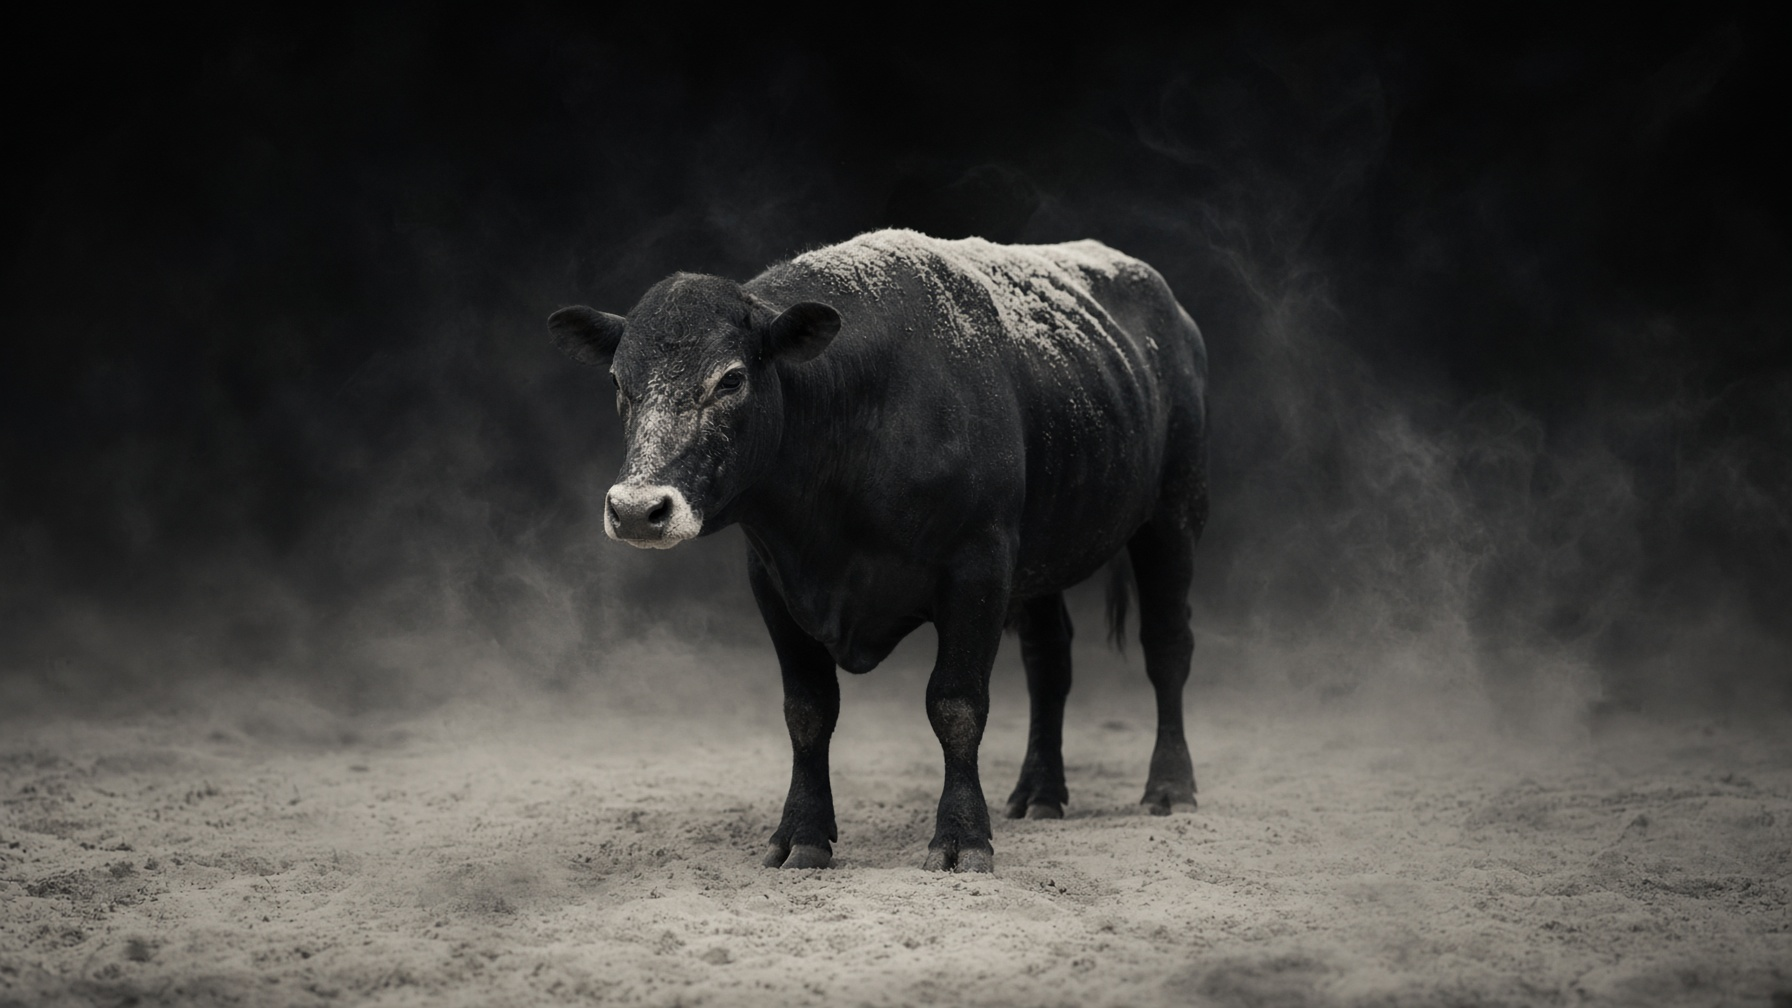
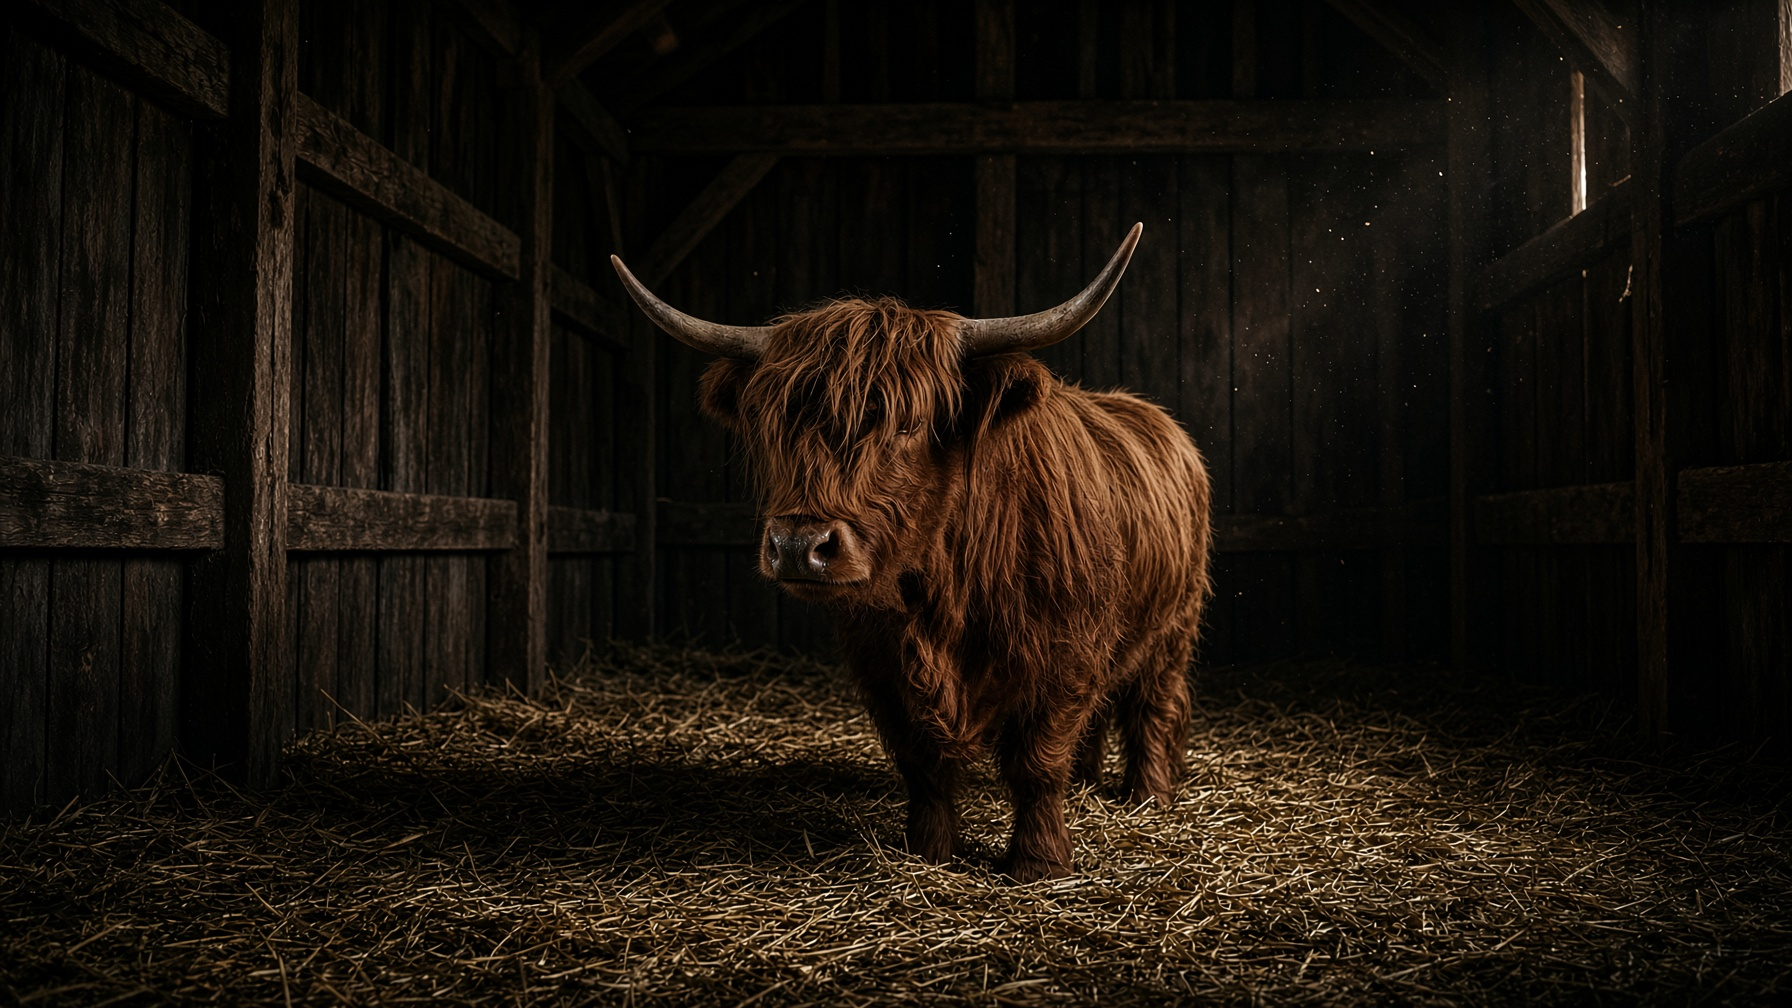
Make Ash Cow a Highland cow and finish the public API
Hero, portrait, mark, and OG are a Scottish Highland. Shop and sales pages use the photos. GET /api/health and /api/stalls close the backend; 404s land in an empty stall.

diff --git a/src/routes/shop.tsx b/src/routes/shop.tsx
@@ -14,32 +14,55 @@ function ShopPage() {
 
   return (
     <Shell>
-      <main className="mx-auto w-full max-w-6xl px-4 py-12 sm:px-6 sm:py-16">
-        <p className="font-mono text-xs tracking-[0.2em] text-subtle uppercase">Open stall</p>
-        <h1 className="mt-2 font-display text-4xl tracking-tight sm:text-6xl">Shop</h1>
-        <p className="mt-4 max-w-2xl text-base leading-relaxed text-muted">
-          These three kits are live. Share a stall. Take payment on the link you set in Till.
-          The barn logs what actually clears.
-        </p>
-        <div className="mt-10 grid gap-4 sm:grid-cols-2 lg:grid-cols-3">
-          {READY_COWS.map((cow) => (
-            <article
-              key={cow.id}
-              className="flex flex-col rounded-xl bg-surface p-5 shadow-[var(--shadow-border)]"
-            >
-              <p className="font-mono text-xs tabular-nums text-subtle">{money(cow.price)}</p>
-              <h2 className="mt-2 font-display text-2xl tracking-tight">{cow.name}</h2>
-              <p className="mt-2 flex-1 text-sm leading-relaxed text-muted">{cow.oneLiner}</p>
-              <div className="mt-5 flex flex-wrap gap-2">
-                <Button asChild variant="secondary">
-                  <Link to="/s/$id" params={{ id: cow.id }}>
-                    Sales page
-                  </Link>
-                </Button>
-                {mounted ? <BuyButton cow={cow} size="default" /> : null}
-              </div>
-            </article>
-          ))}
+      <main>
+        <section className="relative isolate overflow-hidden">
+          <img
+            src="/portrait-cow.jpg"
+            alt="Highland cow in a dark barn"
+            className="absolute inset-0 size-full object-cover object-[center_20%] md:hidden"
+          />
+          <img
+            src="/hero-cow.jpg"
+            alt="Highland cow in a dark barn"
+            className="absolute inset-0 hidden size-full object-cover object-center md:block"
+          />
+          <div className="absolute inset-0 bg-gradient-to-t from-bg via-bg/50 to-bg/15" />
+          <div className="relative mx-auto w-full max-w-6xl px-4 py-16 sm:px-6 sm:py-24">
+            <p className="font-mono text-xs tracking-[0.2em] text-accent uppercase">Open stall</p>
+            <h1 className="mt-2 font-display text-4xl tracking-tight sm:text-6xl">Shop</h1>
+            <p className="mt-4 max-w-xl text-base leading-relaxed text-fg/85">
+              Three kits. Share a stall. Stripe Checkout takes the money. Nango fills the barn.
+            </p>
+          </div>
+        </section>
+        <div className="mx-auto w-full max-w-6xl px-4 py-12 sm:px-6 sm:pb-16">
+          <div className="grid gap-4 sm:grid-cols-2 lg:grid-cols-3">
+            {READY_COWS.map((cow) => (
+              <article
+                key={cow.id}
+                className="flex flex-col overflow-hidden rounded-xl bg-surface shadow-[var(--shadow-border)]"
+              >
+                <img
+                  src="/portrait-cow.jpg"
+                  alt=""
+                  className="h-40 w-full object-cover object-[center_20%]"
+                />
+                <div className="flex flex-1 flex-col p-5">
+                  <p className="font-mono text-xs tabular-nums text-subtle">{money(cow.price)}</p>
+                  <h2 className="mt-2 font-display text-2xl tracking-tight">{cow.name}</h2>
+                  <p className="mt-2 flex-1 text-sm leading-relaxed text-muted">{cow.oneLiner}</p>
+                  <div className="mt-5 flex flex-wrap gap-2">
+                    <Button asChild variant="secondary">
+                      <Link to="/s/$id" params={{ id: cow.id }}>
+                        Sales page
+                      </Link>
+                    </Button>
+                    {mounted ? <BuyButton cow={cow} size="default" /> : null}
+                  </div>
+                </div>
+              </article>
+            ))}
+          </div>
         </div>
       </main>
     </Shell>

diff --git a/src/routeTree.gen.ts b/src/routeTree.gen.ts
@@ -15,6 +15,8 @@ import { Route as PaidRouteImport } from './routes/paid'
 import { Route as ShopRouteImport } from './routes/shop'
 import { Route as TillRouteImport } from './routes/till'
 import { Route as TruthRouteImport } from './routes/truth'
+import { Route as ApiHealthRouteImport } from './routes/api/health'
+import { Route as ApiStallsRouteImport } from './routes/api/stalls'
 import { Route as CowIdRouteImport } from './routes/cow.$id'
 import { Route as SIdRouteImport } from './routes/s.$id'
 import { Route as ApiNangoWebhookRouteImport } from './routes/api/nango/webhook'
@@ -50,6 +52,16 @@ const TruthRoute = TruthRouteImport.update({
   path: '/truth',
   getParentRoute: () => rootRouteImport,
 } as any)
+const ApiHealthRoute = ApiHealthRouteImport.update({
+  id: '/api/health',
+  path: '/api/health',
+  getParentRoute: () => rootRouteImport,
+} as any)
+const ApiStallsRoute = ApiStallsRouteImport.update({
+  id: '/api/stalls',
+  path: '/api/stalls',
+  getParentRoute: () => rootRouteImport,
+} as any)
 const CowIdRoute = CowIdRouteImport.update({
   id: '/cow/$id',
   path: '/cow/$id',
@@ -78,6 +90,8 @@ export interface FileRoutesByFullPath {
   '/shop': typeof ShopRoute
   '/till': typeof TillRoute
   '/truth': typeof TruthRoute
+  '/api/health': typeof ApiHealthRoute
+  '/api/stalls': typeof ApiStallsRoute
   '/cow/$id': typeof CowIdRoute
   '/s/$id': typeof SIdRoute
   '/api/nango/webhook': typeof ApiNangoWebhookRoute
@@ -90,6 +104,8 @@ export interface FileRoutesByTo {
   '/shop': typeof ShopRoute
   '/till': typeof TillRoute
   '/truth': typeof TruthRoute
+  '/api/health': typeof ApiHealthRoute
+  '/api/stalls': typeof ApiStallsRoute
   '/cow/$id': typeof CowIdRoute
   '/s/$id': typeof SIdRoute
   '/api/nango/webhook': typeof ApiNangoWebhookRoute
@@ -103,6 +119,8 @@ export interface FileRoutesById {
   '/shop': typeof ShopRoute
   '/till': typeof TillRoute
   '/truth': typeof TruthRoute
+  '/api/health': typeof ApiHealthRoute
+  '/api/stalls': typeof ApiStallsRoute
   '/cow/$id': typeof CowIdRoute
   '/s/$id': typeof SIdRoute
   '/api/nango/webhook': typeof ApiNangoWebhookRoute
@@ -117,6 +135,8 @@ export interface FileRouteTypes {
     | '/shop'
     | '/till'
     | '/truth'
+    | '/api/health'
+    | '/api/stalls'
     | '/cow/$id'
     | '/s/$id'
     | '/api/nango/webhook'
@@ -129,6 +149,8 @@ export interface FileRouteTypes {
     | '/shop'
     | '/till'
     | '/truth'
+    | '/api/health'
+    | '/api/stalls'
     | '/cow/$id'
     | '/s/$id'
     | '/api/nango/webhook'
@@ -141,6 +163,8 @@ export interface FileRouteTypes {
     | '/shop'
     | '/till'
     | '/truth'
+    | '/api/health'
+    | '/api/stalls'
     | '/cow/$id'
     | '/s/$id'
     | '/api/nango/webhook'
@@ -154,6 +178,8 @@ export interface RootRouteChildren {
   ShopRoute: typeof ShopRoute
   TillRoute: typeof TillRoute
   TruthRoute: typeof TruthRoute
+  ApiHealthRoute: typeof ApiHealthRoute
+  ApiStallsRoute: typeof ApiStallsRoute
   CowIdRoute: typeof CowIdRoute
   SIdRoute: typeof SIdRoute
   ApiNangoWebhookRoute: typeof ApiNangoWebhookRoute
@@ -204,6 +230,20 @@ declare module '@tanstack/react-router' {
       preLoaderRoute: typeof TruthRouteImport
       parentRoute: typeof rootRouteImport
     }
+    '/api/health': {
+      id: '/api/health'
+      path: '/api/health'
+      fullPath: '/api/health'
+      preLoaderRoute: typeof ApiHealthRouteImport
+      parentRoute: typeof rootRouteImport
+    }
+    '/api/stalls': {
+      id: '/api/stalls'
+      path: '/api/stalls'
+      fullPath: '/api/stalls'
+      preLoaderRoute: typeof ApiStallsRouteImport
+      parentRoute: typeof rootRouteImport
+    }
     '/cow/$id': {
       id: '/cow/$id'
       path: '/cow/$id'
@@ -242,6 +282,8 @@ const rootRouteChildren: RootRouteChildren = {
   ShopRoute: ShopRoute,
   TillRoute: TillRoute,
   TruthRoute: TruthRoute,
+  ApiHealthRoute: ApiHealthRoute,
+  ApiStallsRoute: ApiStallsRoute,
   CowIdRoute: CowIdRoute,
   SIdRoute: SIdRoute,
   ApiNangoWebhookRoute: ApiNangoWebhookRoute,

diff --git a/src/lib/ready-cows.ts b/src/lib/ready-cows.ts
@@ -17,14 +17,14 @@ export const READY_COWS: CashCow[] = [
     price: 29,
     name: "Ash Cow",
     oneLiner:
-      "A figurative cash cow: name a digital product, write the file, list it tonight, and run a 24-hour clock until someone pays — or until you still have a product.",
+      "A Highland cash cow: name a digital product, write the file, list it tonight, and run a 24-hour clock until someone pays — or until you still have a product.",
     promise: "Walk into tomorrow with a named product for sale, not another idea.",
     who: "people who can already do the work and keep waiting for a brand",
     outcome: "a listed digital product and a day of honest distribution",
     gumroadTitle: "Ash Cow — the 24-hour cash cow kit",
     gumroadTags: ["digital download", "solopreneur", "gumroad", "launch"],
     coverPrompt:
-      "Square 1:1 listing cover. Dark timber barn, near-black, a single pale cow in dusty side light. Centered paper-white serif lettering: \"ASH COW\". Smaller line: \"A 24-hour cash cow kit\". Editorial still. No neon, no cartoon, no collage.",
+      "Square 1:1 listing cover. Dark timber barn, a Scottish Highland cow in dusty side light, ginger coat and lyre horns. Centered paper-white serif lettering: \"ASH COW\". Smaller line: \"A Highland cash cow kit\". Editorial still. No neon, no cartoon, no collage.",
     objections: [
       {
         objection: "This is just a pep talk.",
@@ -77,7 +77,7 @@ export const READY_COWS: CashCow[] = [
       },
       {
         channel: "Caption",
-        copy: "A cash cow is a product you build once that keeps paying.\n\nAsh Cow is a figurative one: a named digital good, a sales page, and a 24-hour clock.\n\n$29. File, not a funnel.",
+        copy: "A cash cow is a product you build once that keeps paying.\n\nAsh Cow is a Highland one: a named digital good, a sales page, and a 24-hour clock.\n\n$29. File, not a funnel.",
       },
       {
         channel: "Thread",
@@ -90,7 +90,7 @@ export const READY_COWS: CashCow[] = [
     ],
     deliveryDoc: {
       title: "Ash Cow",
-      subtitle: "A 24-hour kit for a figurative cash cow.",
+      subtitle: "A 24-hour kit for a Highland cash cow.",
       pages: [
         {
           heading: "A cash cow is an object",

diff --git a/src/components/cow-mark.tsx b/src/components/cow-mark.tsx
@@ -9,10 +9,21 @@ export function CowMark({ className }: { className?: string }) {
       <rect width="32" height="32" rx="8" className="fill-raised" />
       <path
         className="fill-accent"
-        d="M8.5 13.2c0-2.4 1.2-4.4 2.7-4.4.7 0 1.2.4 1.8.4h6c.6 0 1.1-.4 1.8-.4 1.5 0 2.7 2 2.7 4.4 0 1.1-.3 2.1-.8 2.8 1.2.8 2 2.1 2 3.6 0 3.2-3.2 5.4-8.2 5.4s-8.2-2.2-8.2-5.4c0-1.5.8-2.8 2-3.6-.5-.7-.8-1.7-.8-2.8z"
+        d="M5.8 13.2C5.2 8.4 8.6 4.6 11.4 4.8c.2 2.4-1.4 5.2-3.4 7.4-.8.4-1.7.8-2.2 1z"
       />
-      <circle cx="13.2" cy="16.6" r="1.1" className="fill-bg" />
-      <circle cx="18.8" cy="16.6" r="1.1" className="fill-bg" />
+      <path
+        className="fill-accent"
+        d="M26.2 13.2c-.5-.2-1.4-.6-2.2-1-2-2.2-3.6-5-3.4-7.4 2.8-.2 6.2 3.6 5.6 8.4z"
+      />
+      <ellipse cx="16" cy="18.2" rx="8.2" ry="7.4" className="fill-accent" />
+      <path
+        className="fill-accent"
+        d="M8.8 14.2c2.2-4.4 4.8-6.4 7.2-6.4s5 2 7.2 6.4c-2.2-1.4-4.6-2.1-7.2-2.1s-5 .7-7.2 2.1z"
+      />
+      <path className="fill-bg" d="M12.6 16.4c.4 1.6 1.2 2.4 1.2 2.4s-.6-2-.4-2.6c.1-.3-.3-.3-.8.2z" />
+      <path className="fill-bg" d="M19.4 16.4c-.4 1.6-1.2 2.4-1.2 2.4s.6-2 .4-2.6c-.1-.3.3-.3.8.2z" />
+      <circle cx="13.1" cy="19.4" r="1" className="fill-bg" />
+      <circle cx="18.9" cy="19.4" r="1" className="fill-bg" />
     </svg>
   );
 }

diff --git a/src/routes/index.tsx b/src/routes/index.tsx
@@ -51,14 +51,14 @@ function Home() {
         <div className="absolute inset-0 bg-gradient-to-t from-bg via-bg/55 to-bg/20" />
         <div className="relative mx-auto flex min-h-[88dvh] w-full max-w-6xl flex-col justify-end px-4 pb-14 pt-24 sm:px-6 sm:pb-20">
           <p className="stagger-in font-mono text-xs tracking-[0.22em] text-accent uppercase">
-            The figurative cash cow
+            A Highland cash cow
           </p>
           <h1 className="stagger-in mt-4 font-display text-6xl tracking-tight text-fg sm:text-8xl">
             Ash Cow
           </h1>
           <p className="stagger-in mt-5 max-w-xl text-base leading-relaxed text-fg/85 sm:text-lg">
             Build a named digital product. List it tonight. Sell it in twenty-four hours.
-            The animal is a metaphor. The file is not.
+            The Highland is the animal. The file is the cow.
           </p>
           <div className="stagger-in mt-8 flex flex-col gap-3 sm:flex-row">
             <Button asChild size="lg">

diff --git a/src/routes/api/health.ts b/src/routes/api/health.ts
@@ -1,0 +1,29 @@
+import { createFileRoute } from "@tanstack/react-router";
+
+export const Route = createFileRoute("/api/health")({
+  server: {
+    handlers: {
+      GET: async () => {
+        const { stripeSecrets } = await import("@/lib/stripe.server");
+        const { nangoConfig } = await import("@/lib/nango.server");
+        const stripe = stripeSecrets();
+        const nango = nangoConfig();
+        return Response.json({
+          ok: true,
+          app: "ash-cow",
+          checkout: stripe.checkoutReady,
+          stripeWebhook: stripe.webhookReady,
+          nango: nango.ready,
+          nangoWebhook: nango.webhookReady,
+          nangoSync: {
+            integrationId: nango.integrationId,
+            connectionId: nango.connectionId,
+            syncName: nango.syncName,
+            model: nango.model,
+            frequency: nango.frequency,
+          },
+        });
+      },
+    },
+  },
+});

diff --git a/src/components/not-found.tsx b/src/components/not-found.tsx
@@ -1,0 +1,23 @@
+import { Link } from "@tanstack/react-router";
+import { Shell } from "@/components/shell";
+import { Button } from "@/components/ui/button";
+
+export function NotFound() {
+  return (
+    <Shell>
+      <main className="mx-auto flex w-full max-w-lg flex-col px-4 py-20 sm:px-6">
+        <p className="font-mono text-xs tracking-[0.2em] text-subtle uppercase">Empty stall</p>
+        <h1 className="mt-2 font-display text-4xl tracking-tight">Nothing here.</h1>
+        <p className="mt-3 text-muted">That path is not a product, a clock, or a shop.</p>
+        <div className="mt-8 flex flex-wrap gap-2">
+          <Button asChild>
+            <Link to="/shop">Shop</Link>
+          </Button>
+          <Button asChild variant="secondary">
+            <Link to="/">Barn</Link>
+          </Button>
+        </div>
+      </main>
+    </Shell>
+  );
+}

diff --git a/src/routes/s.$id.tsx b/src/routes/s.$id.tsx
@@ -36,6 +36,11 @@ function StallPage() {
   return (
     <Shell>
       <main className="mx-auto w-full max-w-2xl px-4 py-12 sm:px-6 sm:py-16">
+        <img
+          src="/portrait-cow.jpg"
+          alt="Highland cow"
+          className="mb-8 h-56 w-full rounded-xl object-cover object-[center_18%] shadow-[var(--shadow-border)] sm:h-72"
+        />
         <p className="font-mono text-xs tracking-[0.2em] text-subtle uppercase">For sale</p>
         <h1 className="mt-2 font-display text-4xl tracking-tight sm:text-5xl">{page.headline}</h1>
         <p className="mt-4 text-lg leading-relaxed text-muted">{page.subhead}</p>

diff --git a/src/components/shell.tsx b/src/components/shell.tsx
@@ -42,7 +42,7 @@ export function Shell({ children, trailer }: { children: ReactNode; trailer?: Re
       <div className="flex-1">{children}</div>
       <footer className="no-print border-t border-border">
         <div className="mx-auto flex w-full max-w-6xl flex-col gap-1 px-4 py-8 text-sm text-subtle sm:flex-row sm:items-center sm:justify-between sm:px-6">
-          <p>A figurative cash cow. Built once. Sold in a day.</p>
+          <p>A Highland cash cow. Built once. Sold in a day.</p>
           {trailer ?? <p className="font-mono text-xs tracking-wider">24:00:00</p>}
         </div>
       </footer>

diff --git a/src/routes/api/stalls.ts b/src/routes/api/stalls.ts
@@ -1,0 +1,19 @@
+import { createFileRoute } from "@tanstack/react-router";
+import { READY_COWS } from "@/lib/ready-cows";
+
+export const Route = createFileRoute("/api/stalls")({
+  server: {
+    handlers: {
+      GET: () =>
+        Response.json({
+          stalls: READY_COWS.map((cow) => ({
+            id: cow.id,
+            name: cow.name,
+            price: cow.price,
+            oneLiner: cow.oneLiner,
+            salesPage: cow.salesPage,
+          })),
+        }),
+    },
+  },
+});

diff --git a/src/router.tsx b/src/router.tsx
@@ -1,7 +1,12 @@
 import { createRouter } from "@tanstack/react-router";
+import { NotFound } from "@/components/not-found";
 import { AppErrorComponent } from "@/lib/error-component";
 import { routeTree } from "./routeTree.gen";
 
 export function getRouter() {
-  return createRouter({ routeTree, defaultErrorComponent: AppErrorComponent });
+  return createRouter({
+    routeTree,
+    defaultErrorComponent: AppErrorComponent,
+    defaultNotFoundComponent: NotFound,
+  });
 }

diff --git a/src/routes/__root.tsx b/src/routes/__root.tsx
@@ -15,7 +15,7 @@ export const Route = createRootRoute({
       {
         name: "description",
         content:
-          "A figurative cash cow. Forge a named digital product, list it tonight, and sell it in 24 hours.",
+          "A Highland cash cow. Forge a named digital product, list it tonight, and sell it in 24 hours.",
       },
       { name: "theme-color", content: "#0c0b0a" },
     ],
